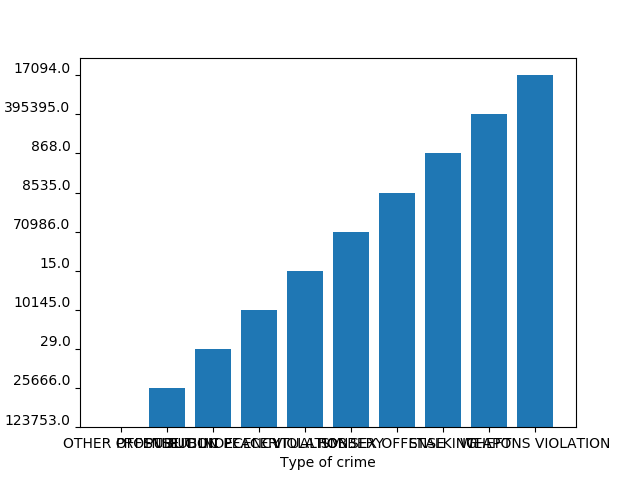
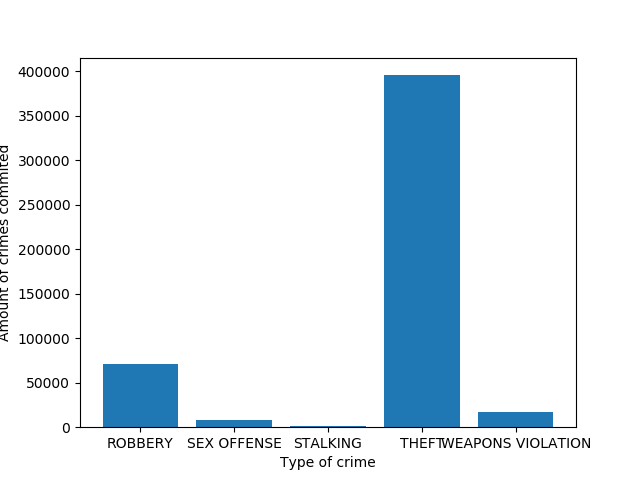
test

diff --git a/app/make_plots.py b/app/make_plots.py
@@ -8,7 +8,7 @@ def read_data(filename, keys=["Primary_Type", "value"]):
         for line in file:
             values = line.split(",")
             documents[0].append(values[0])
-            documents[1].append(values[1])
+            documents[1].append(int(values[1].split(".")[0]))
         return documents
 
 
@@ -16,7 +16,7 @@ def generate_bar_chart(filename):
     plt.bar(data[0], data[1])
     plt.xlabel("Type of crime")
     plt.ylabel("Amount of crimes commited")
-    plt.savefig("/app/static/{}.png".format(filename))
+    plt.savefig("./static/{}.png".format(filename))
 
 
 def generate_charts():
